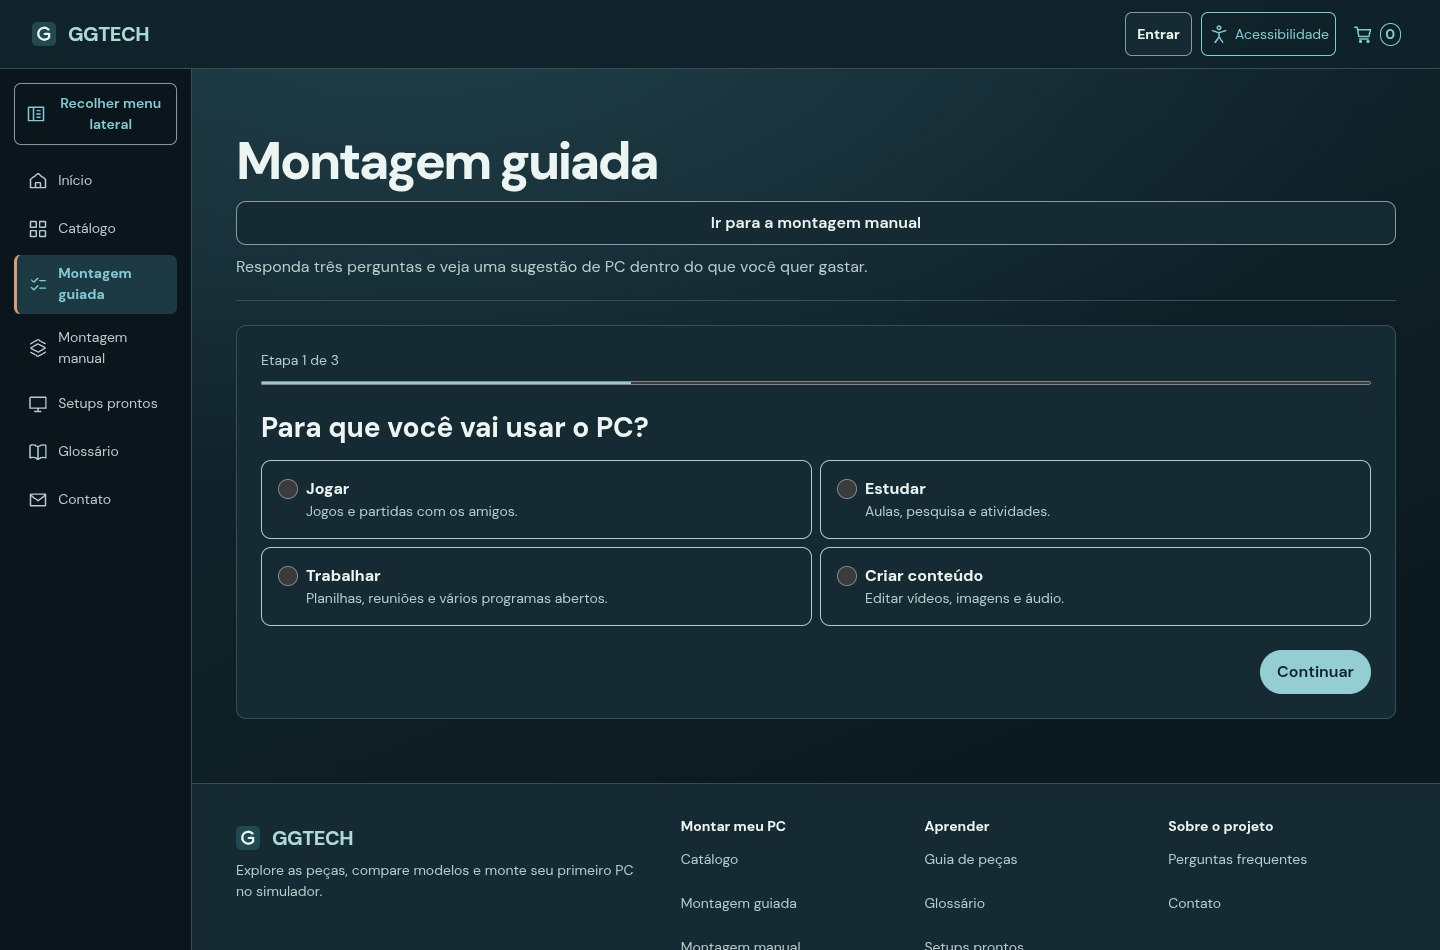
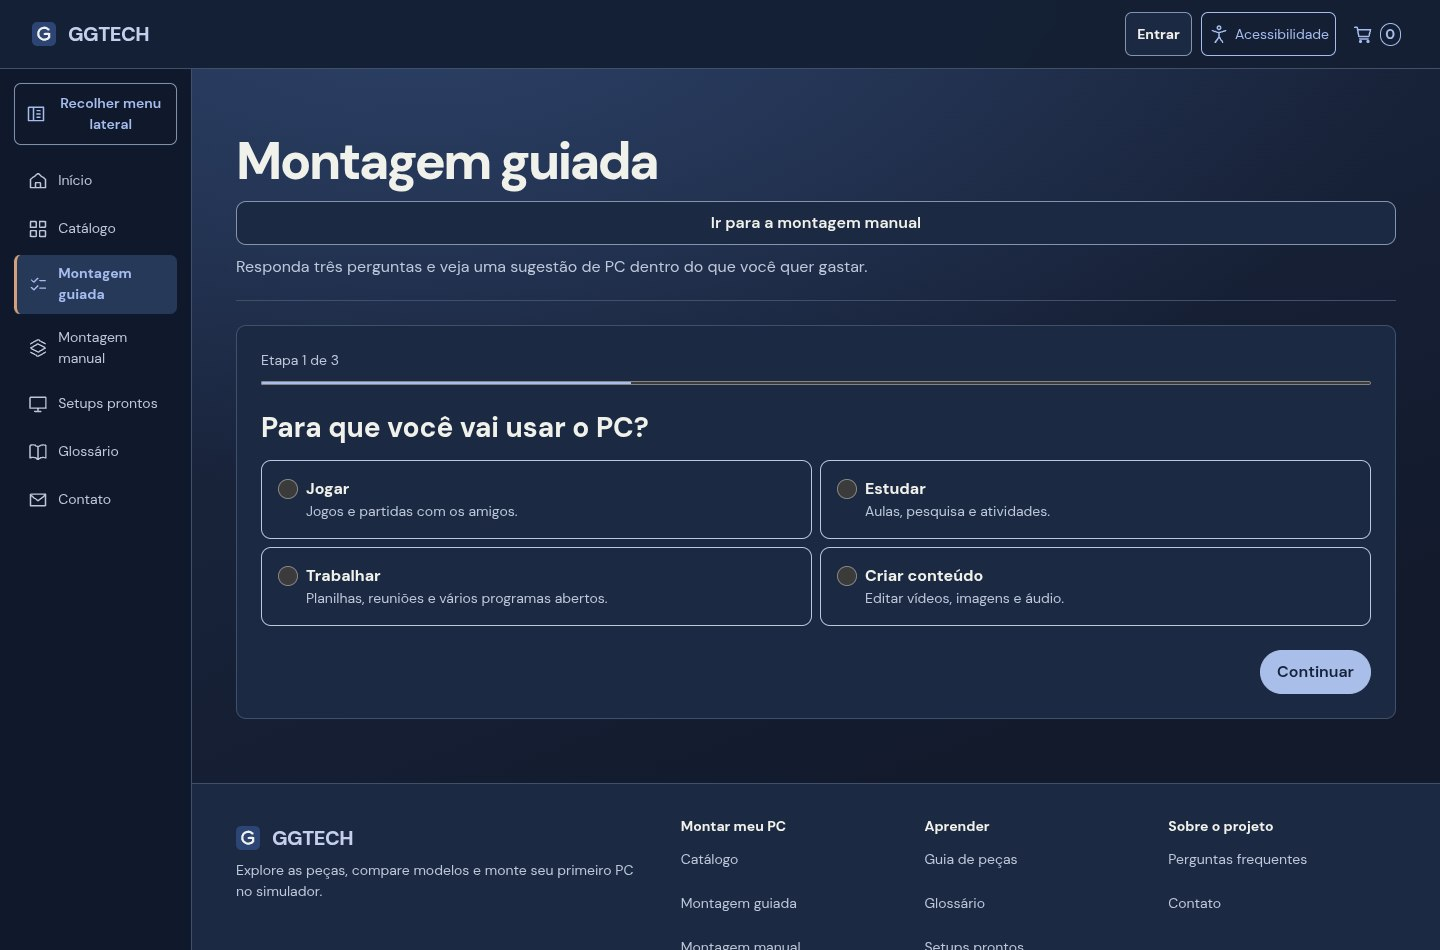
puxei a paleta para o azul ardósia

diff --git a/entrega-final/css/tokens.css b/entrega-final/css/tokens.css
@@ -9,28 +9,28 @@
 :root {
   color-scheme: dark;
 
-  --bg: #0c1a20;
-  --bg-gradiente-inicio: #203f49;
-  --bg-gradiente-meio: #142932;
-  --surface: #152a32;
-  --surface-inset: #0a161b;
-  --line: #364f57;
-  --field-line: #849da3;
-  --accent-soft: #1d3a44;
-  --accent-soft-hover: #264650;
-  --text: #edf5f2;
-  --text-2: #b7cbcb;
-  --accent: #83cbd2;
-  --brand-blue: #add9d9;
+  --bg: #121a2c;
+  --bg-gradiente-inicio: #2c4167;
+  --bg-gradiente-meio: #1e2b47;
+  --surface: #1b2942;
+  --surface-inset: #10192b;
+  --line: #404f6a;
+  --field-line: #8294ae;
+  --accent-soft: #263959;
+  --accent-soft-hover: #30476b;
+  --text: #f1f1eb;
+  --text-2: #bdc7d9;
+  --accent: #a5bcee;
+  --brand-blue: #c4d0eb;
   --metal: #d5a17c;
-  --palco-luz: #284953;
-  --palco-grade: rgba(131, 203, 210, .08);
-  --btn-primary: #95ced2;
-  --btn-hover: #b0e1e1;
-  --btn-text: #0b2228;
+  --palco-luz: #304871;
+  --palco-grade: rgba(165, 188, 238, .09);
+  --btn-primary: #a9bfe9;
+  --btn-hover: #bfd0f0;
+  --btn-text: #14223a;
   --success: #72d6a5;
   --danger: #ffad9e;
-  --glass: rgba(16, 34, 41, .97);
+  --glass: rgba(20, 31, 52, .97);
   --glass-blur: blur(20px);
 
   --font-family: "DM Sans", system-ui, -apple-system, "Segoe UI", sans-serif;
@@ -58,24 +58,24 @@
 :root[data-theme="light"] {
   color-scheme: light;
 
-  --bg: #edf2ef;
-  --surface: #fcfdf9;
-  --surface-inset: #dfeae6;
-  --line: #b9cac6;
-  --field-line: #627b7c;
-  --accent-soft: #dbeceb;
-  --accent-soft-hover: #cfe3e2;
-  --text: #152b30;
-  --text-2: #455d60;
-  --accent: #245b63;
-  --brand-blue: #214952;
+  --bg: #eaf0f9;
+  --surface: #fbfcff;
+  --surface-inset: #dce5f3;
+  --line: #bac8df;
+  --field-line: #63758f;
+  --accent-soft: #dce6f7;
+  --accent-soft-hover: #cfdef4;
+  --text: #1a2740;
+  --text-2: #455773;
+  --accent: #31548b;
+  --brand-blue: #263f6b;
   --metal: #89563b;
-  --palco-luz: #cae0dc;
-  --palco-grade: rgba(36, 91, 99, .09);
-  --btn-primary: #2b626a;
-  --btn-hover: #214f56;
-  --btn-text: #f8fcf9;
+  --palco-luz: #c0d2ed;
+  --palco-grade: rgba(49, 84, 139, .09);
+  --btn-primary: #34558b;
+  --btn-hover: #284475;
+  --btn-text: #fafbff;
   --success: #176347;
   --danger: #9c352a;
-  --glass: rgba(247, 251, 247, .96);
+  --glass: rgba(247, 250, 255, .96);
 }

diff --git a/entrega-final/estoque.html b/entrega-final/estoque.html
@@ -5,15 +5,15 @@
     <meta name="viewport" content="width=device-width, initial-scale=1">
     <meta name="description" content="Explore o catálogo de componentes reais da GGTECH, filtre por preço e veja as especificações das peças.">
     <title>Catálogo de peças — GGTECH</title>
-    <link rel="icon" type="image/svg+xml" href="recursos/icones/favicon.svg?v=petroleo-1">
+    <link rel="icon" type="image/svg+xml" href="recursos/icones/favicon.svg?v=ardosia-1">
     <script src="js/tema.js?v=interfaces-11"></script>
-    <link rel="stylesheet" href="css/tokens.css?v=petroleo-2">
+    <link rel="stylesheet" href="css/tokens.css?v=ardosia-1">
     <link rel="stylesheet" href="css/base.css?v=petroleo-1">
     <link rel="stylesheet" href="css/layout.css?v=lateral-1">
     <link rel="stylesheet" href="css/componentes.css?v=inicio-1">
     <link rel="stylesheet" href="css/loja.css?v=inicio-1">
     <link rel="stylesheet" href="css/apoio.css?v=inicio-1">
-    <link rel="stylesheet" href="css/laboratorio.css?v=petroleo-1">
+    <link rel="stylesheet" href="css/laboratorio.css?v=ardosia-1">
     <link rel="stylesheet" href="css/navegacao.css?v=petroleo-1">
     <link rel="stylesheet" href="css/acessibilidade.css?v=interfaces-11">
     <script type="module" src="js/principal.js?v=inicio-1"></script>

diff --git a/entrega-final/index.html b/entrega-final/index.html
@@ -5,15 +5,15 @@
     <meta name="viewport" content="width=device-width, initial-scale=1">
     <meta name="description" content="Conheça as peças do seu primeiro PC com a GGTECH, um simulador acadêmico para quem está começando.">
     <title>GGTECH — Monte seu PC peça por peça</title>
-    <link rel="icon" type="image/svg+xml" href="recursos/icones/favicon.svg?v=petroleo-1">
+    <link rel="icon" type="image/svg+xml" href="recursos/icones/favicon.svg?v=ardosia-1">
     <script src="js/tema.js?v=interfaces-11"></script>
-    <link rel="stylesheet" href="css/tokens.css?v=petroleo-2">
+    <link rel="stylesheet" href="css/tokens.css?v=ardosia-1">
     <link rel="stylesheet" href="css/base.css?v=petroleo-1">
     <link rel="stylesheet" href="css/layout.css?v=lateral-1">
     <link rel="stylesheet" href="css/componentes.css?v=inicio-1">
     <link rel="stylesheet" href="css/loja.css?v=inicio-1">
     <link rel="stylesheet" href="css/montador.css?v=inicio-1">
-    <link rel="stylesheet" href="css/laboratorio.css?v=petroleo-1">
+    <link rel="stylesheet" href="css/laboratorio.css?v=ardosia-1">
     <link rel="stylesheet" href="css/navegacao.css?v=petroleo-1">
     <link rel="stylesheet" href="css/acessibilidade.css?v=interfaces-11">
     <script type="importmap">

diff --git a/entrega-final/montador.html b/entrega-final/montador.html
@@ -5,15 +5,15 @@
     <meta name="viewport" content="width=device-width, initial-scale=1">
     <meta name="description" content="Monte um PC compatível com seu uso, seu orçamento e a sua prioridade.">
     <title>Montagem guiada — GGTECH</title>
-    <link rel="icon" type="image/svg+xml" href="recursos/icones/favicon.svg?v=petroleo-1">
+    <link rel="icon" type="image/svg+xml" href="recursos/icones/favicon.svg?v=ardosia-1">
     <script src="js/tema.js?v=interfaces-11"></script>
-    <link rel="stylesheet" href="css/tokens.css?v=petroleo-2">
+    <link rel="stylesheet" href="css/tokens.css?v=ardosia-1">
     <link rel="stylesheet" href="css/base.css?v=petroleo-1">
     <link rel="stylesheet" href="css/layout.css?v=lateral-1">
     <link rel="stylesheet" href="css/componentes.css?v=inicio-1">
     <link rel="stylesheet" href="css/loja.css?v=inicio-1">
     <link rel="stylesheet" href="css/montador.css?v=inicio-1">
-    <link rel="stylesheet" href="css/laboratorio.css?v=petroleo-1">
+    <link rel="stylesheet" href="css/laboratorio.css?v=ardosia-1">
     <link rel="stylesheet" href="css/navegacao.css?v=petroleo-1">
     <link rel="stylesheet" href="css/acessibilidade.css?v=interfaces-11">
     <script type="module" src="js/principal.js?v=inicio-1"></script>

diff --git a/entrega-final/guia.html b/entrega-final/guia.html
@@ -5,15 +5,15 @@
     <meta name="viewport" content="width=device-width, initial-scale=1">
     <meta name="description" content="Entenda o que cada componente faz e compare especificações reais.">
     <title>Guia de componentes — GGTECH</title>
-    <link rel="icon" type="image/svg+xml" href="recursos/icones/favicon.svg?v=petroleo-1">
+    <link rel="icon" type="image/svg+xml" href="recursos/icones/favicon.svg?v=ardosia-1">
     <script src="js/tema.js?v=interfaces-11"></script>
-    <link rel="stylesheet" href="css/tokens.css?v=petroleo-2">
+    <link rel="stylesheet" href="css/tokens.css?v=ardosia-1">
     <link rel="stylesheet" href="css/base.css?v=petroleo-1">
     <link rel="stylesheet" href="css/layout.css?v=lateral-1">
     <link rel="stylesheet" href="css/componentes.css?v=inicio-1">
     <link rel="stylesheet" href="css/loja.css?v=inicio-1">
     <link rel="stylesheet" href="css/montador.css?v=inicio-1">
-    <link rel="stylesheet" href="css/laboratorio.css?v=petroleo-1">
+    <link rel="stylesheet" href="css/laboratorio.css?v=ardosia-1">
     <link rel="stylesheet" href="css/navegacao.css?v=petroleo-1">
     <link rel="stylesheet" href="css/acessibilidade.css?v=interfaces-11">
     <link rel="stylesheet" href="css/simulador.css?v=interfaces-8">

diff --git a/entrega-final/simulador.html b/entrega-final/simulador.html
@@ -5,15 +5,15 @@
     <meta name="viewport" content="width=device-width, initial-scale=1">
     <meta name="description" content="Escolha peças reais e confira compatibilidade, consumo e orçamento.">
     <title>Montagem manual — GGTECH</title>
-    <link rel="icon" type="image/svg+xml" href="recursos/icones/favicon.svg?v=petroleo-1">
+    <link rel="icon" type="image/svg+xml" href="recursos/icones/favicon.svg?v=ardosia-1">
     <script src="js/tema.js?v=interfaces-11"></script>
-    <link rel="stylesheet" href="css/tokens.css?v=petroleo-2">
+    <link rel="stylesheet" href="css/tokens.css?v=ardosia-1">
     <link rel="stylesheet" href="css/base.css?v=petroleo-1">
     <link rel="stylesheet" href="css/layout.css?v=lateral-1">
     <link rel="stylesheet" href="css/componentes.css?v=inicio-1">
     <link rel="stylesheet" href="css/loja.css?v=inicio-1">
     <link rel="stylesheet" href="css/montador.css?v=inicio-1">
-    <link rel="stylesheet" href="css/laboratorio.css?v=petroleo-1">
+    <link rel="stylesheet" href="css/laboratorio.css?v=ardosia-1">
     <link rel="stylesheet" href="css/navegacao.css?v=petroleo-1">
     <link rel="stylesheet" href="css/acessibilidade.css?v=interfaces-11">
     <link rel="stylesheet" href="css/simulador.css?v=interfaces-8">

diff --git a/entrega-final/glossario.html b/entrega-final/glossario.html
@@ -5,15 +5,15 @@
     <meta name="viewport" content="width=device-width, initial-scale=1">
     <meta name="description" content="Entenda os termos técnicos que aparecem nas peças de computador.">
     <title>Glossário — GGTECH</title>
-    <link rel="icon" type="image/svg+xml" href="recursos/icones/favicon.svg?v=petroleo-1">
+    <link rel="icon" type="image/svg+xml" href="recursos/icones/favicon.svg?v=ardosia-1">
     <script src="js/tema.js?v=interfaces-11"></script>
-    <link rel="stylesheet" href="css/tokens.css?v=petroleo-2">
+    <link rel="stylesheet" href="css/tokens.css?v=ardosia-1">
     <link rel="stylesheet" href="css/base.css?v=petroleo-1">
     <link rel="stylesheet" href="css/layout.css?v=lateral-1">
     <link rel="stylesheet" href="css/componentes.css?v=inicio-1">
     <link rel="stylesheet" href="css/loja.css?v=inicio-1">
     <link rel="stylesheet" href="css/apoio.css?v=inicio-1">
-    <link rel="stylesheet" href="css/laboratorio.css?v=petroleo-1">
+    <link rel="stylesheet" href="css/laboratorio.css?v=ardosia-1">
     <link rel="stylesheet" href="css/navegacao.css?v=petroleo-1">
     <link rel="stylesheet" href="css/acessibilidade.css?v=interfaces-11">
     <script type="module" src="js/principal.js?v=inicio-1"></script>

diff --git a/entrega-final/setups.html b/entrega-final/setups.html
@@ -5,15 +5,15 @@
     <meta name="viewport" content="width=device-width, initial-scale=1">
     <meta name="description" content="Explore oito montagens e personalize as peças no simulador.">
     <title>Setups prontos — GGTECH</title>
-    <link rel="icon" type="image/svg+xml" href="recursos/icones/favicon.svg?v=petroleo-1">
+    <link rel="icon" type="image/svg+xml" href="recursos/icones/favicon.svg?v=ardosia-1">
     <script src="js/tema.js?v=interfaces-11"></script>
-    <link rel="stylesheet" href="css/tokens.css?v=petroleo-2">
+    <link rel="stylesheet" href="css/tokens.css?v=ardosia-1">
     <link rel="stylesheet" href="css/base.css?v=petroleo-1">
     <link rel="stylesheet" href="css/layout.css?v=lateral-1">
     <link rel="stylesheet" href="css/componentes.css?v=inicio-1">
     <link rel="stylesheet" href="css/loja.css?v=inicio-1">
     <link rel="stylesheet" href="css/montador.css?v=inicio-1">
-    <link rel="stylesheet" href="css/laboratorio.css?v=petroleo-1">
+    <link rel="stylesheet" href="css/laboratorio.css?v=ardosia-1">
     <link rel="stylesheet" href="css/navegacao.css?v=petroleo-1">
     <link rel="stylesheet" href="css/acessibilidade.css?v=interfaces-11">
     <link rel="stylesheet" href="css/simulador.css?v=interfaces-8">

diff --git a/entrega-final/contato.html b/entrega-final/contato.html
@@ -5,15 +5,15 @@
     <meta name="viewport" content="width=device-width, initial-scale=1">
     <meta name="description" content="Formulário de contato do projeto acadêmico GGTECH.">
     <title>Contato — GGTECH</title>
-    <link rel="icon" type="image/svg+xml" href="recursos/icones/favicon.svg?v=petroleo-1">
+    <link rel="icon" type="image/svg+xml" href="recursos/icones/favicon.svg?v=ardosia-1">
     <script src="js/tema.js?v=interfaces-11"></script>
-    <link rel="stylesheet" href="css/tokens.css?v=petroleo-2">
+    <link rel="stylesheet" href="css/tokens.css?v=ardosia-1">
     <link rel="stylesheet" href="css/base.css?v=petroleo-1">
     <link rel="stylesheet" href="css/layout.css?v=lateral-1">
     <link rel="stylesheet" href="css/componentes.css?v=inicio-1">
     <link rel="stylesheet" href="css/loja.css?v=inicio-1">
     <link rel="stylesheet" href="css/apoio.css?v=inicio-1">
-    <link rel="stylesheet" href="css/laboratorio.css?v=petroleo-1">
+    <link rel="stylesheet" href="css/laboratorio.css?v=ardosia-1">
     <link rel="stylesheet" href="css/navegacao.css?v=petroleo-1">
     <link rel="stylesheet" href="css/acessibilidade.css?v=interfaces-11">
     <script type="module" src="js/principal.js?v=inicio-1"></script>

diff --git a/entrega-final/login.html b/entrega-final/login.html
@@ -5,15 +5,15 @@
     <meta name="viewport" content="width=device-width, initial-scale=1">
     <meta name="description" content="Acesso fictício do projeto acadêmico GGTECH.">
     <title>Entrar — GGTECH</title>
-    <link rel="icon" type="image/svg+xml" href="recursos/icones/favicon.svg?v=petroleo-1">
+    <link rel="icon" type="image/svg+xml" href="recursos/icones/favicon.svg?v=ardosia-1">
     <script src="js/tema.js?v=interfaces-11"></script>
-    <link rel="stylesheet" href="css/tokens.css?v=petroleo-2">
+    <link rel="stylesheet" href="css/tokens.css?v=ardosia-1">
     <link rel="stylesheet" href="css/base.css?v=petroleo-1">
     <link rel="stylesheet" href="css/layout.css?v=lateral-1">
     <link rel="stylesheet" href="css/componentes.css?v=inicio-1">
     <link rel="stylesheet" href="css/loja.css?v=inicio-1">
     <link rel="stylesheet" href="css/apoio.css?v=inicio-1">
-    <link rel="stylesheet" href="css/laboratorio.css?v=petroleo-1">
+    <link rel="stylesheet" href="css/laboratorio.css?v=ardosia-1">
     <link rel="stylesheet" href="css/navegacao.css?v=petroleo-1">
     <link rel="stylesheet" href="css/acessibilidade.css?v=interfaces-11">
     <script type="module" src="js/principal.js?v=inicio-1"></script>

diff --git a/entrega-final/css/laboratorio.css b/entrega-final/css/laboratorio.css
@@ -21,7 +21,7 @@
   flex: none;
   inline-size: 1.5rem;
   block-size: 1.5rem;
-  background: url("../recursos/icones/favicon.svg?v=petroleo-1") center / contain no-repeat;
+  background: url("../recursos/icones/favicon.svg?v=ardosia-1") center / contain no-repeat;
 }
 
 .nav-menu a[href] {

diff --git a/entrega-final/docs/paleta.md b/entrega-final/docs/paleta.md
@@ -1,21 +1,21 @@
 # Paleta do GGTECH
 
-A entrega final usa azul-petróleo na base, azul mineral nas ações e um tom de latão nos detalhes. As cores ficam em `css/tokens.css` e o degradê é aplicado por `css/base.css`.
+A entrega final usa azul ardósia na base, azul de porcelana nas ações e um tom de latão nos detalhes. As cores ficam em `css/tokens.css` e o degradê é aplicado por `css/base.css`.
 
 ## Tema escuro
 
-- **Fundos.** O petróleo profundo (`#0C1A20`) é a base da página. O degradê passa por `#203F49` e `#142932`. Os cartões usam `#152A32` e o menu lateral, `#0A161B`.
-- **Texto.** Os títulos, nomes e preços usam um branco com leve toque de verde (`#EDF5F2`). As legendas e os textos de apoio ficam em `#B7CBCB`.
-- **Destaques.** Os links e o foco usam azul mineral (`#83CBD2`). O latão (`#D5A17C`) aparece na seta da montagem guiada e na borda do item atual do menu. As confirmações ficam em verde (`#72D6A5`) e os avisos em coral (`#FFAD9E`).
+- **Fundos.** O azul ardósia escuro (`#121A2C`) é a base da página. O degradê passa por `#2C4167` e `#1E2B47`. Os cartões usam `#1B2942` e o menu lateral, `#10192B`.
+- **Texto.** Os títulos, nomes e preços usam branco levemente quente (`#F1F1EB`). As legendas e os textos de apoio ficam em `#BDC7D9`.
+- **Destaques.** Os links e o foco usam azul de porcelana (`#A5BCEE`). O latão (`#D5A17C`) aparece na seta da montagem guiada e na borda do item atual do menu. As confirmações ficam em verde (`#72D6A5`) e os avisos em coral (`#FFAD9E`).
 
 ## Tema claro
 
-- **Fundos.** O fundo é claro e levemente esverdeado (`#EDF2EF`), com cartões em `#FCFDF9`.
-- **Texto.** O petróleo escuro (`#152B30`) aparece nos títulos, nomes e preços. Os detalhes usam `#455D60`.
-- **Destaques.** Os links e o foco usam um petróleo mais fechado (`#245B63`), e os detalhes de latão escurecem (`#89563B`). As confirmações ficam em verde (`#176347`) e os avisos em coral escuro (`#9C352A`).
+- **Fundos.** O fundo é azul acinzentado claro (`#EAF0F9`), com cartões em `#FBFCFF`.
+- **Texto.** O azul profundo (`#1A2740`) aparece nos títulos, nomes e preços. Os detalhes usam `#455773`.
+- **Destaques.** Os links e o foco usam um azul mais fechado (`#31548B`), e os detalhes de latão escurecem (`#89563B`). As confirmações ficam em verde (`#176347`) e os avisos em coral escuro (`#9C352A`).
 
-Os botões principais usam texto escuro sobre azul mineral no tema escuro e texto claro sobre petróleo no tema claro. A camada translúcida usa 97% de opacidade no escuro e 96% no claro. Em alto contraste, o cabeçalho e as gavetas ficam com fundo sólido. O degradê e a grade atrás do gabinete dão lugar a superfícies lisas.
+Os botões principais usam texto escuro sobre azul de porcelana no tema escuro e texto claro sobre azul fechado no tema claro. A camada translúcida usa 97% de opacidade no escuro e 96% no claro. Em alto contraste, o cabeçalho e as gavetas ficam com fundo sólido. O degradê e a grade atrás do gabinete dão lugar a superfícies lisas.
 
-O ícone do GGTECH tem um G claro sobre petróleo (`#214952`). A fonte DM Sans é servida pelo próprio projeto, com tamanhos que continuam ajustáveis no painel de acessibilidade. [Licença da fonte](../recursos/fontes/dm-sans-ofl.txt)
+O ícone do GGTECH tem um G claro sobre azul (`#2D4574`). A fonte DM Sans é servida pelo próprio projeto, com tamanhos que continuam ajustáveis no painel de acessibilidade. [Licença da fonte](../recursos/fontes/dm-sans-ofl.txt)
 
 [Como as cores funcionam na interface](psicologia-cores.md)
